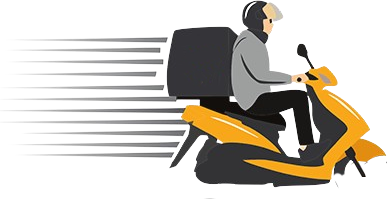
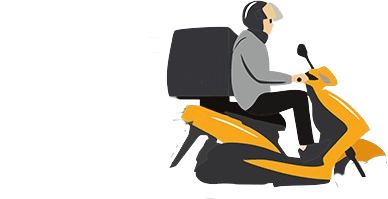
update

diff --git a/frontend/src/assets/css/login.css b/frontend/src/assets/css/login.css
@@ -37,7 +37,7 @@
   top: 0;
   display: block;
   height: auto;
-  animation: run 5s infinite linear;
+  animation: run 8s infinite linear;
   animation-name: run;
   max-width: 370px;
   z-index: 2;
@@ -95,7 +95,7 @@
 
 @keyframes background-scroll {
   from {
-    background-position-x: 500%;
+    background-position-x: -500%;
   }
 }
 
